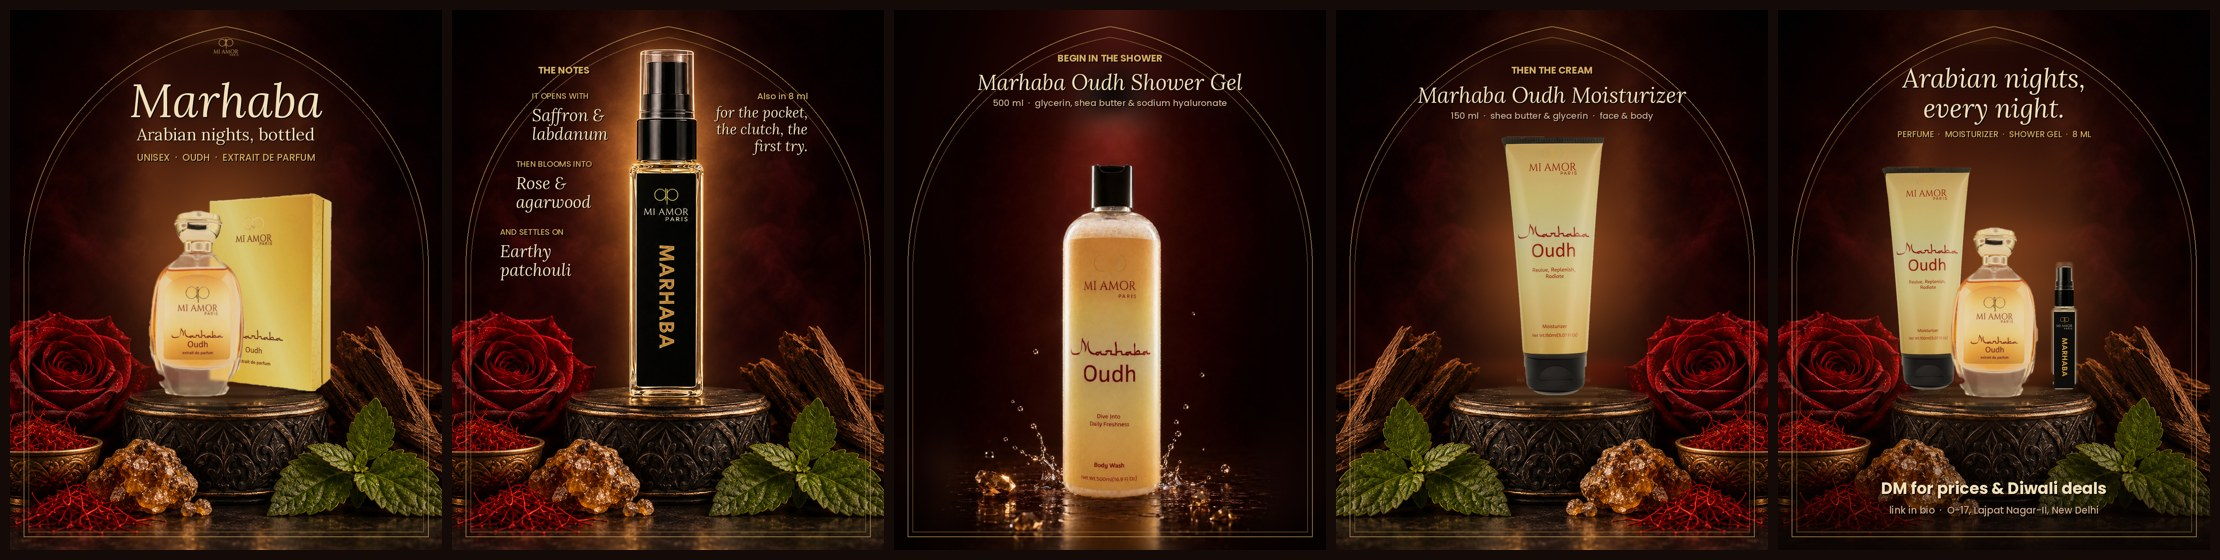
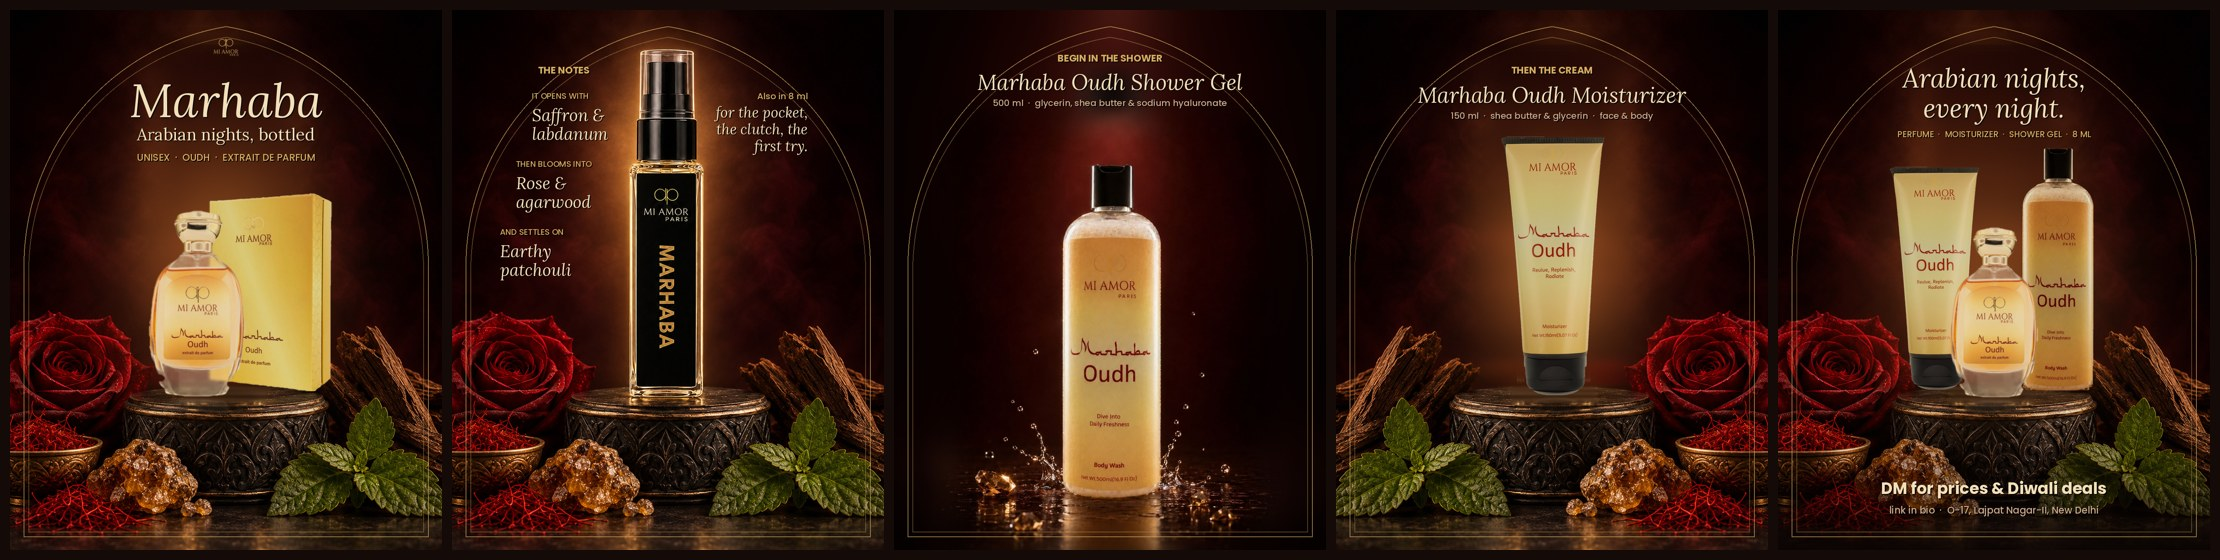
Marhaba last slide: shower gel instead of 8 ml (Tannay)
Claude-Session: https://claude.ai/code/session_01QfcZgk1TCxQfFsu6yjKqLd

Changed region(s): [[0.8392, 0.2732, 0.9635, 0.6982]]

diff --git a/posts/2026-11-03-marhaba-edit/build.py b/posts/2026-11-03-marhaba-edit/build.py
@@ -102,9 +102,9 @@ arch(im); d = ImageDraw.Draw(im)
 c(d, 150, "THEN THE CREAM", pop(24, "Bold"), GOLD); c(d, 212, "Marhaba Oudh Moisturizer", lora(54, True), CHAMP)
 c(d, 264, "150 ml  ·  shea butter & glycerin  ·  face & body", pop(22), MUTE); out.append(im)
 
-# 5 the family on the podium + CTA
+# 5 the family on the podium (moisturizer, shower gel from Drive Marhaba_B_2.jpg, 100 ml) + CTA
 im = scene(); backlight(im, 540, 680, 300, 300)
-place(im, "work/cream.png", 372, 560, BASE - 14); place(im, "work/mini.png", 716, 330, BASE - 8, glass=True); place(im, "work/perfume.png", 540, 430, BASE + 6, glass=True)
+place(im, "work/cream.png", 392, 560, BASE - 14); place(im, "work/gel.png", 700, 610, BASE - 12); place(im, "work/perfume.png", 540, 430, BASE + 6, glass=True)
 bottom_shade(im, 330, 235); arch(im); d = ImageDraw.Draw(im)
 c(d, 170, "Arabian nights,", lora(66, True), CHAMP); c(d, 245, "every night.", lora(66, True), CHAMP)
 c(d, 310, "PERFUME  ·  MOISTURIZER  ·  SHOWER GEL  ·  8 ML", pop(21, "Medium"), GOLD)
